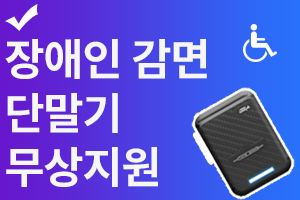
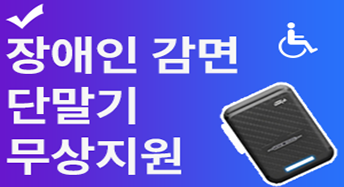
20251223

diff --git a/index.html b/index.html
@@ -12,6 +12,9 @@
     <link rel="stylesheet" as="style" crossorigin
         href="https://cdn.jsdelivr.net/gh/orioncactus/pretendard@v1.3.9/dist/web/variable/pretendardvariable.min.css" />
     <link rel="stylesheet" href="style.css">
+    <link rel="stylesheet" href="https://cdn.jsdelivr.net/npm/swiper@12/swiper-bundle.min.css" />
+
+    <script src="https://cdn.jsdelivr.net/npm/swiper@12/swiper-bundle.min.js"></script>
 </head>
 
 <body>
@@ -37,85 +40,97 @@
     </header><!--header end-->
 
     <main>
-        <section id="open_veiw">
+        <section id="open_view">
             <div class="inner">
                 <div class="map">
                     <h2 class="map_name">실시간 도로 상황</h2>
                     <p><img src="./image/map.png" alt=""></p>
                 </div>
-                <div class="quick_menu">
-                    <ul>
-                        <li>
-                            <img src="./image/icon/1.png" alt="">
-                            <p>하이패스</p>
-                        </li>
-                        <li>
-                            <img src="./image/icon/2.png" alt="">
-                            <p>휴게소</p>
-                        </li>
-                        <li>
-                            <img src="./image/icon/3.png" alt="">
-                            <p>통행요금</p>
-                        </li>
-                        <li>
-                            <img src="./image/icon/4.png" alt="">
-                            <p>교통정보</p>
-                        </li>
-                        <li>
-                            <img src="./image/icon/5.png" alt="">
-                            <p>미납통행료</p>
-                        </li>
-                        <li>
-                            <img src="./image/icon/6.png" alt="">
-                            <p>교통안전</p>
-                        </li>
-                        <li>
-                            <img src="./image/icon/7.png" alt="">
-                            <p>안전신고</p>
-                        </li>
-                        <li>
-                            <img src="./image/icon/8.png" alt="">
-                            <p>공익신고</p>
-                        </li>
-
-                    </ul>
-                    <ul class="banner">
-                        <li></li>
-                        <li></li>
-                        <li></li>
-                        <li></li>
-                    </ul>
+                <div id="menu">
+                    <div class="quick_menu">
+                        <ul>
+                            <li>
+                                <img src="./image/icon/1.png" alt="">
+                                <p>하이패스</p>
+                            </li>
+                            <li>
+                                <img src="./image/icon/2.png" alt="">
+                                <p>휴게소</p>
+                            </li>
+                            <li>
+                                <img src="./image/icon/3.png" alt="">
+                                <p>통행요금</p>
+                            </li>
+                            <li>
+                                <img src="./image/icon/4.png" alt="">
+                                <p>교통정보</p>
+                            </li>
+                            <li>
+                                <img src="./image/icon/5.png" alt="">
+                                <p>미납통행료</p>
+                            </li>
+                            <li>
+                                <img src="./image/icon/6.png" alt="">
+                                <p>교통안전</p>
+                            </li>
+                            <li>
+                                <img src="./image/icon/7.png" alt="">
+                                <p>안전신고</p>
+                            </li>
+                            <li>
+                                <img src="./image/icon/8.png" alt="">
+                                <p>공익신고</p>
+                            </li>
+                        </ul>
+                    </div>
+                    <div class="banner swiper">
+                        <ul class="swiper-wrapper">
+                            <li class="swiper-slide"><img src="./image/banner/banner_1.png" alt=""></li>
+                            <li class="swiper-slide"><img src="./image/banner/banner_2.png" alt=""></li>
+                            <li class="swiper-slide"><img src="./image/banner/banner_3.png" alt=""></li>
+                            <li class="swiper-slide"><img src="./image/banner/banner_4.png" alt=""></li>
+                            <li class="swiper-slide"><img src="./image/banner/banner_5.png" alt=""></li>
+                        </ul>
+                        <div class="swiper-button-prev"></div>
+                        <div class="swiper-button-next"></div>
+                    </div>
                 </div>
-
             </div>
         </section><!--상단 1 end-->
-        <section id="middle_veiw">
-            <div class="promotion">
-                <h2>도로공사 홍보영상</h2>
-                <video src=""></video>
+
+
+        <div id="middle_view">
+            <div class="inner">
+                <section class="promotion">
+                    <h2>도로공사 홍보영상</h2>
+                    <video controls width="250" loop muted autoplay>
+                        <source src="./image/promotion_video.mp4">
+                    </video>
+                </section>
+                <section class="notice">
+                    <h2>공지사항/보도자료</h2>
+                    <div class="notice_bg">
+                        <p>2025년 고속도로 공공 유휴 부지 활용<br>
+                            생활물류시설 개발사업 질의/회신 내용
+                        </p>
+                        <hr>
+                        <ul class="notice_word">
+                            <li>[채용공고] 2025년 충북본북 관내 지사(엄정,상주) 제설 기간제 근로자...</li>
+                            <li>[채용공고] 2025년 충북본부 관내 지사(진천) 제설 기간제근로자 관리원...</li>
+                            <li>(수정)제15기 기술자문위원회, 제2기 기술평가위원회, 제2기 설계VE위원...</li>
+                            <li>[입찰결과]계양-강화 고속도로 제7공구 일괄입찰공사 실시설계 적격심의...</li>
+                        </ul>
+                        <ul class="data">
+                            <li>2025.12.05</li>
+                            <li>2025.12.05</li>
+                            <li>2025.12.05</li>
+                            <li>2025.12.05</li>
+                        </ul>
+                    </div>
+                </section>
             </div>
-            <div class="notice">
-                <h2>공지사항/보도자료</h2>
-                <div class="notice_bg">
-                    <p>2025년 고속도로 공공 유휴 부지 활용<br>
-                        생활물류시설 개발사업 질의/회신 내용
-                    </p>
-                    <hr>
-                    <ul class="notice_word">
-                        <li>[채용공고] 2025년 충북본북 관내 지사(엄정,상주) 제설 기간제 근로자...</li>
-                        <li>[채용공고] 2025년 충북본부 관내 지사(진천) 제설 기간제근로자 관리원...</li>
-                        <li>(수정)제15기 기술자문위원회, 제2기 기술평가위원회, 제2기 설계VE위원...</li>
-                        <li>[입찰결과]계양-강화 고속도로 제7공구 일괄입찰공사 실시설계 적격심의...</li>
-                    </ul>
-                    <ul class="data">
-                        <li>2025.12.05</li>
-                        <li>2025.12.05</li>
-                        <li>2025.12.05</li>
-                        <li>2025.12.05</li>
-                    </ul>
-                </div>
-            </div>
-        </section><!--중앙 1 end-->
+        </div><!--중앙 1 end-->
+
         <section id="sns">
             <h2>도로공사 소식</h2>
             <ul class="instagam">
@@ -172,7 +187,31 @@
 
         </div>
     </footer>
-
+    <script>
+        const swiper = new Swiper('.swiper', {
+            grabCursor: true,
+            centeredSlides: true,
+            slidesPerView: 1.5,
+            loop: true,
+            spaceBetween: 30,
+            effect: "coverflow",
+            coverflowEffect: {
+                rotate: 0,
+                depth: 800,
+                slideShadows: true,
+            },
+            pagination: {
+                el: '.swiper-pagination',
+                clickable: true
+            },
+            autoplay: { delay: 3000 },
+            navigation: {
+                nextEl: '.swiper-button-next',
+                prevEl: '.swiper-button-prev',
+            },
+        });
+    </script>
 </body>
+
 
 </html>

diff --git a/style.css b/style.css
@@ -24,7 +24,7 @@ iframe {
     padding: 0 20px;
     margin: 0 auto;
 }
-header .inner{
+header{
     border-bottom: 1px solid #134290;
 }
 
@@ -96,7 +96,7 @@ header .inner {
     margin-bottom: 10px;
 }
 
-main #open_veiw{
+main #open_view{
     display: flex;
     justify-content: space-between;
 
@@ -121,13 +121,48 @@ main #open_veiw{
 .quick_menu li:nth-child(4n){
     border-right: 0;
 }
+.quick_menu li:nth-child(1),
+.quick_menu li:nth-child(2),
+.quick_menu li:nth-child(3),
+.quick_menu li:nth-child(4){
+    padding-bottom: 30px;
+}
 .quick_menu li:nth-child(5),
 .quick_menu li:nth-child(6),
 .quick_menu li:nth-child(7),
 .quick_menu li:nth-child(8){
     border-top: 1px dashed #CEC9C9;
+    padding-top: 30px;
 }
+
 .quick_menu li img{
     width: 60px; height: 60px;
     object-fit: contain;
+}
+#menu{
+    display: block;
+}
+.banner{
+    margin-top: 67px;
+    width: 632px;
+}
+.banner img{
+    width: 100%;
+}
+.banner li{
+    opacity: 0.3;
+}
+.banner li.swiper-slide-active{
+    opacity: 1;
+}
+#middle_view{
+    justify-content: space-between;
+    margin-top: 100px;
+    display: flex;
+}
+.promotion video{
+    margin-top: 50px;
+    width: 770px;
+    height: 450px;
+    object-fit: cover;
 }
